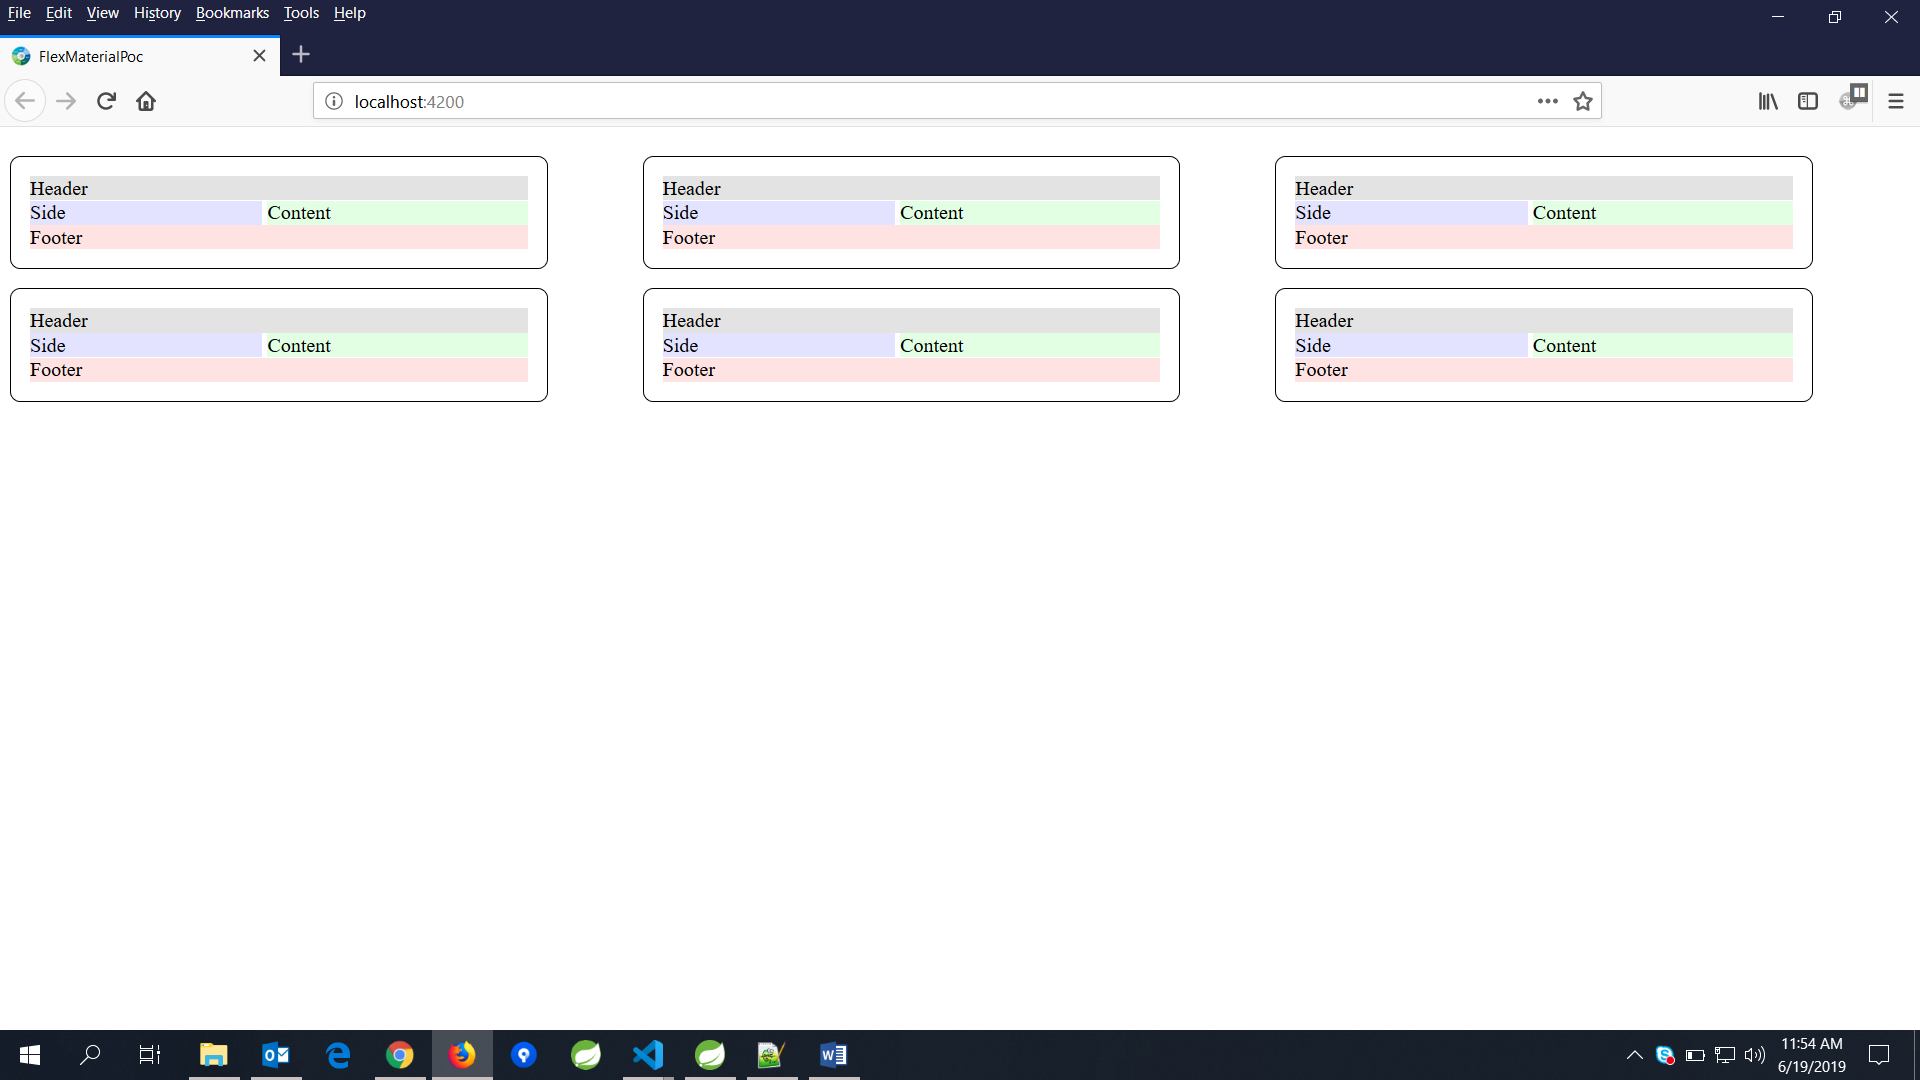
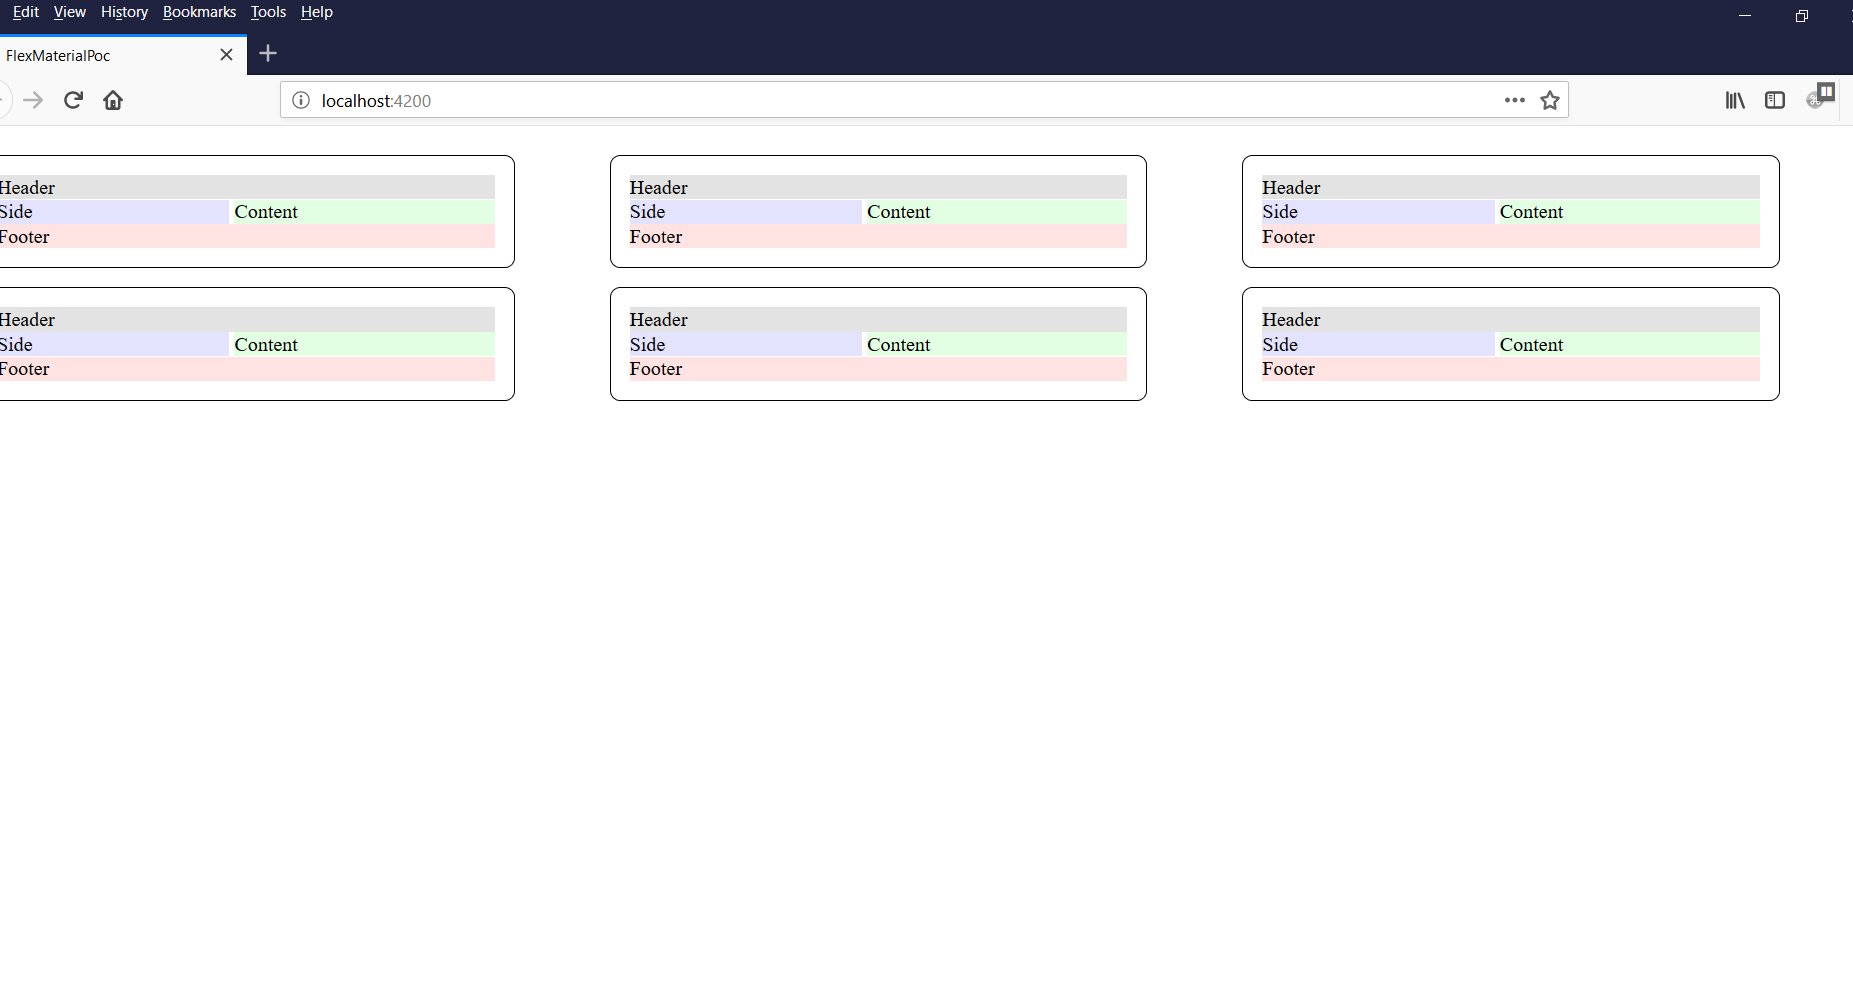
readme updated

diff --git a/README.md b/README.md
@@ -16,7 +16,11 @@ Run `ng build` to build the project. The build artifacts will be stored in the `
 
 ## ScreenShot
 
-![GitHub Logo](/screenshots/1.png)
+![Laptop Screen](/screenshots/1.png)
+
+![iPad Screen](/screenshots/2.png)
+
+![Mobile Screen](/screenshots/3.png)
 
 ## Running unit tests
 
